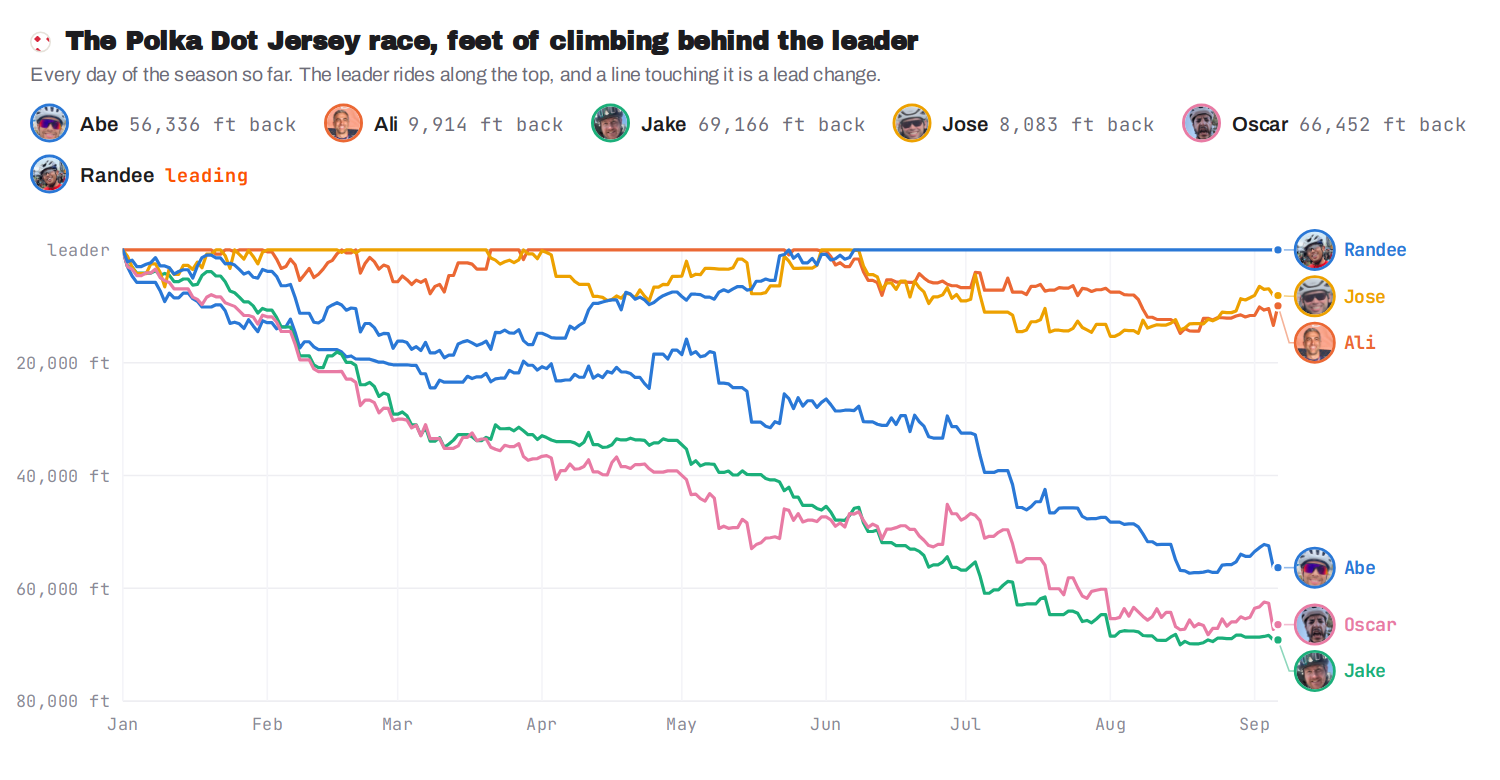
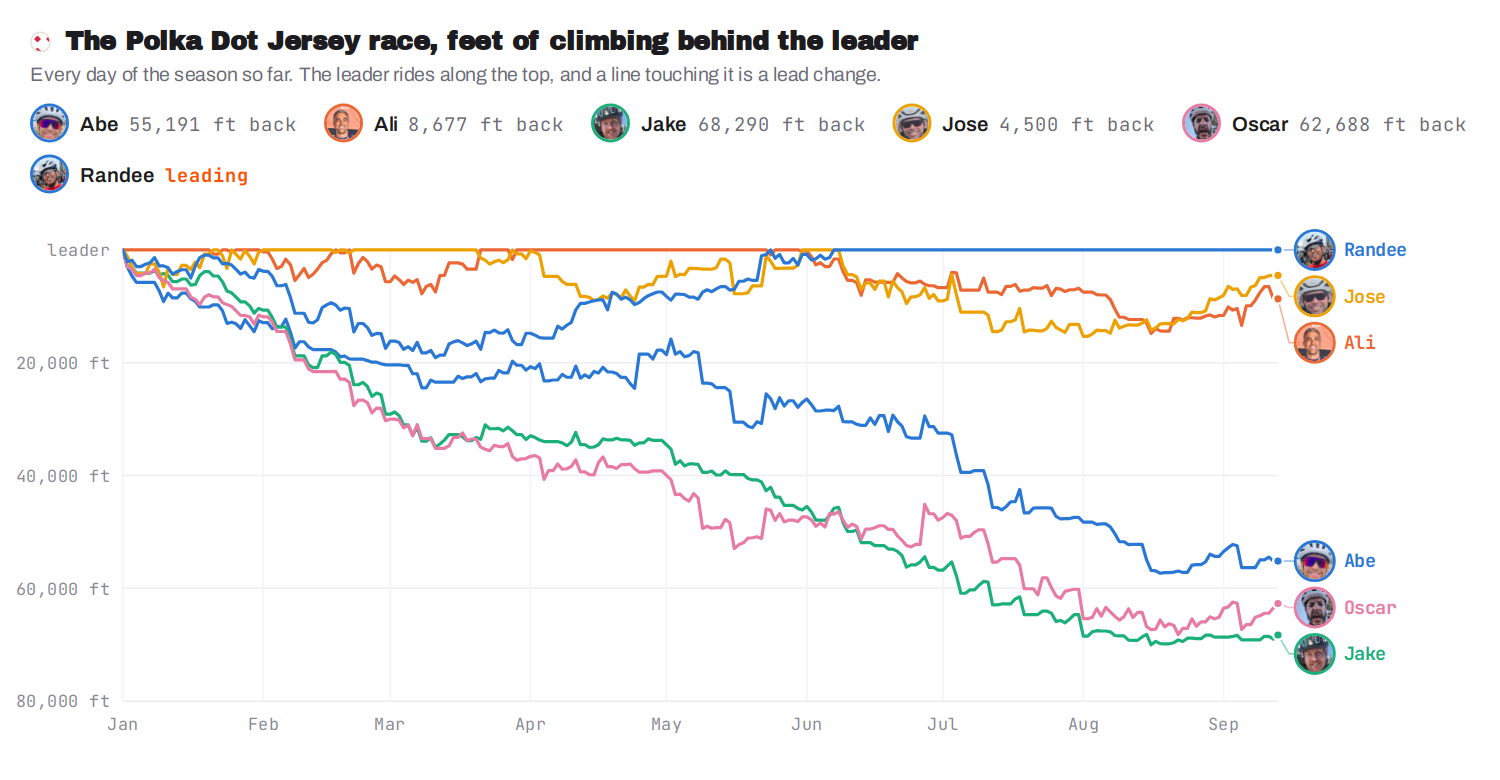
Race charts for 2026-09-13

diff --git a/data/history.js b/data/history.js
@@ -1,1 +1,1 @@
-window.HISTORY={"year":"2026","updated":"2026-09-13","riders":["Abe","Ali","Jake","Jose","Oscar","Randee"],"days":["2026-01-01","2026-01-02","2026-01-03","2026-01-04","2026-01-05","2026-01-06","2026-01-07","2026-01-08","2026-01-09","2026-01-10","2026-01-11","2026-01-12","2026-01-13","2026-01-14","2026-01-15","2026-01-16","2026-01-17","2026-01-18","2026-01-19","2026-01-20","2026-01-21","2026-01-22","2026-01-23","2026-01-24","2026-01-25","2026-01-26","2026-01-27","2026-01-28","2026-01-29","2026-01-30","2026-01-31","2026-02-01","2026-02-02","2026-02-03","2026-02-04","2026-02-05","2026-02-06","2026-02-07","2026-02-08","2026-02-09","2026-02-10","2026-02-11","2026-02-12","2026-02-13","2026-02-14","2026-02-15","2026-02-16","2026-02-17","2026-02-18","2026-02-19","2026-02-20","2026-02-21","2026-02-22","2026-02-23","2026-02-24","2026-02-25","2026-02-26","2026-02-27","2026-02-28","2026-03-01","2026-03-02","2026-03-03","2026-03-04","2026-03-05","2026-03-06","2026-03-07","2026-03-08","2026-03-09","2026-03-10","2026-03-11","2026-03-12","2026-03-13","2026-03-14","2026-03-15","2026-03-16","2026-03-17","2026-03-18","2026-03-19","2026-03-20","2026-03-21","2026-03-22","2026-03-23","2026-03-24","2026-03-25","2026-03-26","2026-03-27","2026-03-28","2026-03-29","2026-03-30","2026-03-31","2026-04-01","2026-04-02","2026-04-03","2026-04-04","2026-04-05","2026-04-06","2026-04-07","2026-04-08","2026-04-09","2026-04-10","2026-04-11","2026-04-12","2026-04-13","2026-04-14","2026-04-15","2026-04-16","2026-04-17","2026-04-18","2026-04-19","2026-04-20","2026-04-21","2026-04-22","2026-04-23","2026-04-24","2026-04-25","2026-04-26","2026-04-27","2026-04-28","2026-04-29","2026-04-30","2026-05-01","2026-05-02","2026-05-03","2026-05-04","2026-05-05","2026-05-06","2026-05-07","2026-05-08","2026-05-09","2026-05-10","2026-05-11","2026-05-12","2026-05-13","2026-05-14","2026-05-15","2026-05-16","2026-05-17","2026-05-18","2026-05-19","2026-05-20","2026-05-21","2026-05-22","2026-05-23","2026-05-24","2026-05-25","2026-05-26","2026-05-27","2026-05-28","2026-05-29","2026-05-30","2026-05-31","2026-06-01","2026-06-02","2026-06-03","2026-06-04","2026-06-05","2026-06-06","2026-06-07","2026-06-08","2026-06-09","2026-06-10","2026-06-11","2026-06-12","2026-06-13","2026-06-14","2026-06-15","2026-06-16","2026-06-17","2026-06-18","2026-06-19","2026-06-20","2026-06-21","2026-06-22","2026-06-23","2026-06-24","2026-06-25","2026-06-26","2026-06-27","2026-06-28","2026-06-29","2026-06-30","2026-07-01","2026-07-02","2026-07-03","2026-07-04","2026-07-05","2026-07-06","2026-07-07","2026-07-08","2026-07-09","2026-07-10","2026-07-11","2026-07-12","2026-07-13","2026-07-14","2026-07-15","2026-07-16","2026-07-17","2026-07-18","2026-07-19","2026-07-20","2026-07-21","2026-07-22","2026-07-23","2026-07-24","2026-07-25","2026-07-26","2026-07-27","2026-07-28","2026-07-29","2026-07-30","2026-07-31","2026-08-01","2026-08-02","2026-08-03","2026-08-04","2026-08-05","2026-08-06","2026-08-07","2026-08-08","2026-08-09","2026-08-10","2026-08-11","2026-08-12","2026-08-13","2026-08-14","2026-08-15","2026-08-16","2026-08-17","2026-08-18","2026-08-19","2026-08-20","2026-08-21","2026-08-22","2026-08-23","2026-08-24","2026-08-25","2026-08-26","2026-08-27","2026-08-28","2026-08-29","2026-08-30","2026-08-31","2026-09-01","2026-09-02","2026-09-03","2026-09-04","2026-09-05","2026-09-06","2026-09-07","2026-09-08","2026-09-09","2026-09-10","2026-09-11","2026-09-12","2026-09-13"],"miles":{"Abe":[0.0,0.0,10.0,10.0,10.0,10.0,10.0,10.0,10.0,26.5,66.8,75.9,75.9,95.2,95.2,110.1,140.7,140.7,140.7,140.7,165.4,165.4,165.4,165.4,182.7,200.8,200.8,225.2,225.2,235.4,299.2,299.2,299.2,320.7,341.9,341.9,354.4,354.4,354.4,376.2,376.2,400.9,400.9,400.9,400.9,400.9,400.9,400.9,417.8,440.2,440.2,507.5,507.5,507.5,521.0,545.3,545.3,545.3,608.5,608.5,608.5,625.6,649.3,649.3,664.0,664.0,664.0,664.0,684.4,712.1,712.1,712.1,712.1,712.1,729.6,729.6,761.0,761.0,775.8,775.8,792.5,810.9,810.9,845.3,845.3,845.3,926.6,926.6,926.6,926.6,945.4,945.4,977.1,983.1,983.1,1005.5,1005.5,1043.6,1043.6,1043.6,1099.9,1099.9,1115.4,1115.4,1146.7,1146.7,1169.7,1190.8,1190.8,1190.8,1204.8,1204.8,1204.8,1204.8,1406.2,1406.2,1406.2,1406.2,1438.3,1438.3,1438.3,1495.7,1495.7,1514.6,1514.6,1541.9,1553.7,1569.0,1569.0,1569.0,1600.4,1600.4,1600.4,1600.4,1600.4,1600.4,1600.4,1600.4,1600.4,1600.4,1617.4,1617.4,1683.5,1683.5,1683.5,1715.1,1715.1,1738.9,1738.9,1738.9,1762.2,1781.7,1781.7,1797.4,1797.4,1836.8,1836.8,1836.8,1856.8,1856.8,1887.0,1887.0,1887.0,1920.7,1920.7,1952.1,1952.1,1983.7,1983.7,1983.7,2027.9,2027.9,2027.9,2045.0,2045.0,2045.0,2045.0,2100.9,2100.9,2100.9,2100.9,2100.9,2100.9,2100.9,2100.9,2100.9,2100.9,2100.9,2105.7,2105.7,2105.7,2105.7,2105.7,2105.7,2105.7,2120.8,2136.6,2136.6,2198.9,2198.9,2198.9,2214.5,2246.7,2246.7,2246.7,2286.8,2286.8,2286.8,2296.0,2296.0,2302.1,2302.1,2372.6,2372.6,2372.6,2372.6,2408.8,2408.8,2417.8,2433.1,2433.1,2433.1,2436.7,2467.1,2467.1,2467.1,2467.1,2467.1,2467.1,2467.1,2502.7,2502.7,2521.2,2571.3,2571.3,2571.3,2594.0,2629.1,2629.1,2649.5,2696.9,2696.9,2696.9,2727.1,2739.5,2759.5,2759.5,2788.2,2788.2,2788.2,2788.2,2814.7,2814.7,2829.0,2851.3,2851.3],"Ali":[0.0,28.3,64.7,69.1,69.1,69.1,69.1,69.1,81.9,109.7,118.3,122.3,122.3,122.3,122.3,134.8,154.5,159.4,159.4,159.4,159.4,159.4,167.0,197.9,197.9,201.8,206.7,206.7,210.6,221.4,231.6,231.6,231.6,231.6,231.6,239.2,249.6,260.4,260.4,265.3,269.2,269.2,272.9,289.7,298.4,307.9,313.6,317.8,328.2,328.2,339.8,339.8,351.2,362.8,362.8,373.4,386.1,386.1,437.2,437.2,442.1,442.1,451.6,461.1,473.7,478.4,478.4,489.1,495.0,503.2,533.4,533.4,549.9,549.9,549.9,563.6,571.8,571.8,571.8,621.3,627.6,640.9,640.9,647.9,662.9,662.9,677.2,766.3,766.3,784.0,784.0,796.3,813.3,924.5,924.5,924.5,924.5,936.8,955.4,955.4,955.4,991.4,991.4,1001.9,1016.2,1026.3,1026.3,1038.5,1038.5,1051.4,1062.6,1062.6,1075.1,1107.0,1154.9,1154.9,1154.9,1165.2,1165.2,1165.2,1185.4,1204.6,1225.9,1225.9,1236.2,1245.3,1245.3,1265.2,1323.8,1323.8,1339.1,1347.0,1347.0,1347.0,1357.0,1434.6,1434.6,1434.6,1442.6,1446.8,1446.8,1458.3,1473.2,1473.2,1494.0,1494.0,1521.7,1521.7,1521.7,1554.5,1557.6,1557.6,1557.6,1557.6,1566.1,1566.1,1566.1,1601.1,1601.1,1606.5,1606.5,1606.5,1606.5,1606.5,1624.9,1624.9,1632.6,1632.6,1632.6,1746.2,1746.2,1767.8,1767.8,1777.7,1777.7,1777.7,1793.2,1793.2,1817.6,1817.6,1825.4,1825.4,1825.4,1861.6,1899.1,1899.1,1899.1,1899.1,1899.1,1899.1,1925.0,1925.0,1952.8,1952.8,1952.8,1982.1,1982.1,1997.5,1997.5,2043.1,2043.1,2048.8,2076.1,2076.1,2091.2,2091.2,2113.4,2129.0,2129.0,2144.4,2144.4,2148.3,2203.6,2203.6,2203.6,2208.3,2238.2,2238.2,2238.2,2238.2,2238.2,2238.2,2247.4,2277.3,2277.3,2277.3,2324.4,2324.4,2347.4,2347.4,2377.6,2377.6,2405.2,2452.3,2452.3,2471.0,2471.0,2501.6,2501.6,2518.1,2558.4,2558.4,2571.3,2571.3,2602.6,2602.6,2622.0,2658.0,2669.2,2669.2,2680.3,2708.0,2719.6,2719.6,2719.6,2719.6],"Jake":[0.0,0.0,35.6,35.6,35.6,35.6,35.6,51.1,72.1,110.9,110.9,110.9,110.9,126.4,126.4,141.4,181.0,222.5,242.7,242.7,242.7,242.7,242.7,262.9,262.9,262.9,262.9,262.9,278.0,278.0,311.3,311.3,311.3,311.3,311.3,311.3,311.3,311.3,311.3,311.3,311.3,311.3,311.3,311.3,412.2,412.2,432.6,432.6,432.6,432.6,432.6,453.3,453.3,468.9,468.9,468.9,489.0,489.0,489.0,489.0,504.0,504.0,504.0,504.0,504.0,531.5,531.5,531.5,541.9,541.9,552.2,570.4,612.9,612.9,612.9,612.9,631.1,631.1,641.4,662.4,696.6,696.6,696.6,706.9,706.9,725.9,763.4,763.4,763.4,763.4,781.7,781.7,781.7,883.4,883.4,883.4,883.4,901.5,901.5,911.6,963.3,963.3,963.3,963.3,973.4,991.5,1017.0,1040.0,1040.0,1050.2,1062.6,1062.6,1087.7,1087.7,1133.5,1133.5,1151.6,1162.3,1162.3,1162.3,1162.3,1162.3,1162.3,1172.6,1172.6,1190.7,1190.7,1209.6,1278.7,1278.7,1289.0,1289.0,1289.0,1307.1,1307.1,1384.6,1384.6,1384.6,1384.6,1384.6,1384.6,1384.6,1409.7,1442.7,1442.7,1442.7,1442.7,1442.7,1442.7,1460.1,1460.1,1470.3,1470.3,1470.3,1470.3,1488.4,1510.1,1545.1,1560.6,1560.6,1560.6,1560.6,1579.6,1579.6,1579.6,1579.6,1589.9,1589.9,1589.9,1690.2,1690.2,1710.3,1710.3,1710.3,1720.5,1720.5,1732.9,1763.2,1763.2,1763.2,1773.4,1773.4,1793.5,1818.9,1839.4,1839.4,1839.4,1849.6,1849.6,1869.9,1887.0,1930.3,1930.3,1930.3,1940.5,1940.5,1940.5,1960.6,1983.8,2014.8,2014.8,2014.8,2045.0,2055.3,2055.3,2086.0,2086.0,2096.3,2096.3,2114.3,2132.1,2132.1,2182.2,2182.2,2202.3,2212.5,2242.3,2242.3,2260.3,2285.4,2320.6,2320.6,2320.6,2350.5,2350.5,2360.6,2425.1,2425.1,2442.1,2442.1,2472.5,2472.5,2489.7,2542.6,2542.6,2552.9,2552.9,2583.6,2583.6,2601.6,2635.2,2635.2,2635.2,2635.2,2635.2,2652.2,2662.0,2763.0,2763.0,2763.0,2763.0,2763.0,2780.1,2780.1,2818.6,2838.7],"Jose":[0.0,41.2,41.2,41.2,41.2,41.2,71.7,71.7,71.7,71.7,127.2,127.2,127.2,155.4,155.4,175.1,220.5,220.5,262.5,262.5,291.7,291.7,291.7,291.7,344.5,344.5,344.5,374.0,374.0,374.0,441.5,462.6,462.6,485.6,521.2,521.2,521.2,571.0,627.5,627.5,627.5,656.7,677.5,677.5,677.5,677.5,677.5,677.5,708.6,708.6,708.6,778.1,778.1,778.1,795.7,831.7,831.7,846.7,913.2,913.2,913.2,927.6,957.1,957.1,995.2,995.2,1049.3,1049.3,1049.3,1087.5,1087.5,1087.5,1087.5,1087.5,1087.5,1106.2,1132.9,1132.9,1132.9,1132.9,1132.9,1132.9,1147.5,1163.7,1163.7,1179.9,1252.3,1252.3,1252.3,1252.3,1279.2,1279.2,1279.2,1279.2,1279.2,1279.2,1279.2,1279.2,1279.2,1279.2,1279.2,1279.2,1279.2,1290.6,1290.6,1304.7,1319.6,1350.8,1371.6,1371.6,1387.2,1414.0,1414.0,1414.0,1516.3,1516.3,1532.4,1548.6,1577.7,1577.7,1597.5,1651.2,1651.2,1664.5,1681.9,1711.3,1711.3,1731.3,1788.5,1788.5,1803.7,1822.4,1851.4,1851.4,1851.4,1851.4,1851.4,1851.4,1868.7,1899.5,1899.5,1910.9,1976.3,1976.3,1996.2,1996.2,2025.5,2025.5,2025.5,2055.6,2113.4,2113.4,2131.7,2161.1,2161.1,2178.6,2178.6,2178.6,2178.6,2178.6,2178.6,2178.6,2178.6,2178.6,2211.7,2211.7,2211.7,2240.9,2240.9,2240.9,2285.5,2285.5,2285.5,2285.5,2313.5,2313.5,2328.9,2363.7,2363.7,2381.1,2381.1,2381.1,2391.4,2471.2,2471.2,2471.2,2471.2,2471.2,2471.2,2471.2,2471.2,2508.3,2542.9,2542.9,2562.5,2591.6,2591.6,2607.1,2665.9,2665.9,2677.3,2677.3,2704.1,2704.1,2719.2,2774.2,2789.1,2789.1,2789.1,2818.1,2818.1,2818.1,2876.7,2876.7,2895.3,2913.3,2943.4,2943.4,2956.6,3014.6,3014.6,3029.9,3045.7,3074.9,3074.9,3087.9,3146.5,3146.5,3165.0,3181.0,3208.5,3208.5,3221.6,3286.9,3286.9,3305.4,3322.2,3351.5,3351.5,3362.7,3426.8,3432.5,3451.3,3470.2,3500.1,3500.1,3514.6,3560.7,3560.7,3587.8,3599.6,3626.8,3626.8,3640.4,3684.4,3684.4],"Oscar":[0.0,0.0,55.9,55.9,55.9,77.2,77.2,97.3,97.3,152.1,152.1,152.1,152.1,152.1,152.1,152.1,174.3,179.0,208.4,219.3,230.3,246.4,246.4,293.1,293.1,293.1,309.3,309.3,334.2,334.2,395.7,397.6,397.6,416.6,416.6,435.1,435.1,456.3,456.3,456.3,456.3,456.3,456.3,456.3,456.3,456.3,456.3,476.0,476.0,492.5,492.5,492.5,533.1,533.1,545.7,545.7,563.0,570.6,608.8,626.7,626.7,644.0,655.0,677.0,677.0,706.2,706.2,706.2,706.2,706.2,706.2,706.2,713.6,739.0,739.0,776.4,776.4,796.9,796.9,796.9,796.9,808.0,822.3,833.5,853.5,857.1,857.1,869.6,880.3,901.5,916.2,930.5,930.5,930.5,938.6,938.6,968.1,968.1,983.9,999.9,1028.6,1028.6,1028.6,1028.6,1039.2,1065.7,1090.5,1090.5,1090.5,1090.5,1124.3,1124.3,1154.6,1154.6,1184.4,1184.4,1184.4,1208.4,1208.4,1208.4,1208.4,1208.4,1208.4,1224.1,1245.5,1245.5,1261.6,1261.6,1261.6,1273.8,1273.8,1307.8,1307.8,1338.9,1338.9,1387.0,1404.5,1414.6,1436.2,1446.1,1455.1,1455.1,1520.9,1543.5,1543.5,1573.9,1573.9,1588.3,1588.3,1630.3,1652.9,1652.9,1674.0,1684.8,1703.0,1703.0,1740.2,1740.2,1751.6,1785.8,1795.9,1818.5,1818.5,1818.5,1842.4,1842.4,1870.4,1881.4,1881.4,1965.3,1965.3,1965.3,1965.3,1992.3,1992.3,2012.7,2012.7,2068.1,2077.0,2077.0,2077.0,2096.7,2125.8,2125.8,2146.0,2146.0,2157.1,2157.1,2182.0,2201.8,2201.8,2201.8,2239.3,2239.3,2273.1,2273.1,2273.1,2273.1,2273.1,2273.1,2273.1,2273.1,2283.5,2334.5,2334.5,2334.5,2334.5,2334.5,2369.6,2376.2,2382.5,2382.5,2382.5,2382.5,2389.0,2418.9,2425.3,2448.1,2448.1,2475.4,2499.3,2516.1,2552.1,2552.1,2589.0,2589.0,2591.2,2630.4,2641.0,2680.0,2693.2,2715.5,2721.1,2748.9,2807.0,2807.0,2841.2,2851.9,2883.6,2883.6,2930.6,2930.6,2941.3,2981.8,2992.6,3001.1,3001.1,3007.9,3029.7,3029.7,3050.0,3060.6,3082.6,3082.6,3106.2,3106.2],"Randee":[0.0,22.5,68.5,68.5,68.5,82.1,93.7,115.7,115.7,143.2,143.2,143.2,158.1,167.7,167.7,167.7,221.6,261.1,274.8,274.8,286.2,286.2,286.2,317.2,323.3,323.3,323.3,335.7,344.4,352.3,432.7,432.7,432.7,446.1,446.1,446.1,456.6,456.6,456.6,456.6,456.6,456.6,468.1,480.2,580.8,587.4,592.2,592.2,607.1,620.6,632.0,632.0,660.7,660.7,660.7,671.8,685.7,695.1,746.2,778.0,778.0,791.7,803.7,819.3,829.9,857.2,875.6,875.6,890.5,901.6,917.3,917.3,997.5,1005.6,1010.5,1010.5,1033.1,1047.7,1059.1,1059.1,1106.1,1111.0,1125.9,1125.9,1141.7,1146.7,1151.5,1151.5,1151.5,1175.6,1175.6,1175.6,1175.6,1281.1,1281.1,1281.1,1290.4,1304.0,1345.0,1355.7,1416.7,1453.2,1453.2,1464.7,1487.9,1503.5,1503.5,1503.5,1526.5,1526.5,1531.5,1546.5,1559.6,1559.6,1605.7,1613.7,1636.4,1652.7,1666.2,1666.2,1666.2,1669.5,1732.4,1732.4,1743.3,1743.3,1743.3,1747.3,1799.0,1803.9,1803.9,1816.6,1830.2,1830.2,1830.2,1907.9,1943.9,1943.9,1955.7,1955.7,1955.7,1985.1,1999.8,2036.4,2040.6,2055.8,2055.8,2055.8,2079.0,2079.0,2129.8,2129.8,2129.8,2162.3,2181.6,2181.6,2190.6,2225.5,2225.5,2237.7,2268.2,2268.2,2281.8,2382.0,2382.0,2382.0,2394.2,2394.2,2394.2,2500.7,2500.7,2504.5,2509.0,2524.4,2534.9,2534.9,2534.9,2551.3,2560.1,2560.1,2572.1,2572.1,2572.1,2585.3,2622.8,2630.9,2630.9,2630.9,2630.9,2630.9,2630.9,2674.5,2702.2,2702.2,2718.0,2718.0,2718.0,2718.0,2742.5,2779.4,2779.4,2779.4,2809.9,2809.9,2809.9,2827.3,2865.2,2878.8,2892.5,2892.5,2892.5,2892.5,2954.6,2954.6,2954.6,2968.3,2998.1,2998.1,3018.9,3064.2,3099.4,3099.4,3116.5,3146.3,3146.3,3146.3,3202.3,3225.1,3226.7,3240.3,3270.1,3270.1,3289.2,3333.8,3339.1,3339.1,3339.1,3369.6,3369.6,3369.6,3472.0,3478.7,3478.7,3478.7,3478.7,3492.3,3498.2,3606.4,3606.4,3606.4,3606.4,3606.4,3606.4,3606.4,3622.4,3622.4]},"feet":{"Abe":[0,0,295,295,295,295,295,295,295,958,2828,3054,3054,3917,3917,4386,5164,5164,5164,5164,6309,6309,6309,6309,6837,7339,7339,8878,8878,9144,11522,11522,11522,11696,13740,13740,15115,15115,15115,16217,16217,16909,16909,16909,16909,16909,16909,16909,17441,17625,17625,21732,21732,21732,22205,23704,23704,23704,27011,27011,27011,27651,29173,29173,29557,29557,29557,29557,30915,32244,32244,32244,32244,32244,33301,33301,34961,34961,35554,35554,36420,37250,37250,39140,39140,39140,43484,43484,43484,43484,44084,44084,45347,46105,46105,46285,46285,48182,48182,48182,50160,50160,50754,50754,52388,52388,53405,54330,54330,54330,54743,54743,54743,54743,62190,62190,62190,62190,63775,63775,63775,67292,67292,67722,67722,68339,69051,69651,69651,69651,69910,69910,69910,69910,69910,69910,69910,69910,69910,69910,70983,70983,78857,78857,78857,80780,80780,81711,81711,81711,82899,83499,83499,83818,83818,84680,84680,84680,85448,85448,86970,86970,86970,89018,89018,90330,90330,91888,91888,91888,94772,94772,94772,94913,94913,94913,94913,99392,99392,99392,99392,99392,99392,99392,99392,99392,99392,99392,99740,99740,99740,99740,99740,99740,99740,100304,101203,101203,104556,104556,104556,105406,106974,106974,106974,108670,108670,108670,109152,109152,109343,109343,113749,113749,113749,113749,115376,115376,115655,116154,116154,116154,116409,117935,117935,117935,117935,117935,117935,117935,119536,119536,120054,122338,122338,122338,123644,125235,125235,125727,129303,129303,129303,130156,130822,131925,131925,133004,133004,133004,133004,134369,134369,134881,136360,136360],"Ali":[0,2966,4921,6047,6047,6047,6047,6047,7536,10128,10479,11575,11575,11575,11575,13045,14272,15285,15285,15285,15285,15285,17083,19337,19337,20433,21257,21257,22352,23638,24091,24091,24091,24091,24091,24436,25738,27080,27080,28097,29193,29193,30289,31175,32310,32756,33917,35013,35909,35909,36975,36975,38683,39765,39765,40208,40924,40924,41721,41721,42741,42741,43515,44286,45737,46239,46239,47531,47885,48250,51179,51179,53424,53424,53424,53581,54057,54057,54057,58926,59280,59992,59992,60500,60956,60956,61550,63952,63952,64792,64792,65124,65547,69343,69343,69343,69343,70245,70763,70763,70763,72922,72922,73398,73962,74225,74225,75967,75967,76272,77342,77342,78450,79281,80645,80645,80645,81534,81534,81534,82332,83096,85777,85777,86685,87095,87095,87886,93283,93283,93641,94336,94336,94336,94947,100465,100465,100465,101174,101439,101439,101767,104385,104385,107000,107000,108470,108470,108470,109635,109730,109730,109730,109730,110130,110130,110130,111557,111557,112073,112073,112073,112073,112073,114815,114815,115567,115567,115567,118329,118329,121036,121036,122417,122417,122417,122745,122745,124399,124399,125186,125186,125186,128185,131698,131698,131698,131698,131698,131698,133857,133857,137919,137919,137919,139376,139376,139717,139717,144071,144071,144481,145908,145908,146357,146357,149094,149408,149408,149730,149730,149986,154504,154504,154504,154510,155957,155957,155957,155957,155957,155957,156365,157835,157835,157835,159958,159958,160903,160903,162336,162336,165033,167123,167123,167523,167523,168967,168967,169324,171742,171742,171992,171992,173491,173491,173954,175955,179426,179426,180420,181762,182819,182819,182819,182819],"Jake":[0,0,1926,1926,1926,1926,1926,2343,3058,5961,5961,5961,5961,6407,6407,6804,8150,10755,11440,11440,11440,11440,11440,12051,12051,12051,12051,12051,12431,12431,13711,13711,13711,13711,13711,13711,13711,13711,13711,13711,13711,13711,13711,13711,15820,15820,16493,16493,16493,16493,16493,17175,17175,17618,17618,17618,18225,18225,18225,18225,18625,18625,18625,18625,18625,20072,20072,20072,20705,20705,21299,21969,22969,22969,22969,22969,23615,23615,24213,25338,28271,28271,28271,28875,28875,29514,31184,31184,31184,31184,31850,31850,31850,35361,35361,35361,35361,36030,36030,36663,38402,38402,38402,38402,39016,39685,40728,42267,42267,42887,43668,43668,44652,44652,46444,46444,47129,47766,47766,47766,47766,47766,47766,48392,48392,49137,49137,49852,53825,53825,54432,54432,54432,55148,55148,60646,60646,60646,60646,60646,60646,60646,61686,63169,63169,63169,63169,63169,63169,63799,63799,64465,64465,64465,64465,65164,65984,67359,67516,67516,67516,67516,68219,68219,68219,68219,68848,68848,68848,71033,71033,71798,71798,71798,72415,72415,72930,74446,74446,74446,75075,75075,75817,76850,77982,77982,77982,78589,78589,79386,80085,82448,82448,82448,83058,83058,83058,83973,85486,86526,86526,86526,88028,88645,88645,90030,90030,90663,90663,91342,92096,92096,93520,93520,94272,94921,96385,96385,97047,98117,99488,99488,99488,100942,100942,101552,104741,104741,105433,105433,106900,106900,107539,110102,110102,110689,110689,112096,112096,112730,114964,114964,114964,114964,114964,115627,116040,120174,120174,120174,120174,120174,120820,120820,122552,123261],"Jose":[0,1854,1854,1854,1854,1854,3576,3576,3576,3576,7238,7238,7238,8812,8812,9587,12100,12100,14511,14511,16053,16053,16053,16053,19652,19652,19652,21184,21184,21184,23678,24419,24419,25696,27388,27388,27388,29721,32493,32493,32493,34108,34590,34590,34590,34590,34590,34590,36424,36424,36424,41102,41102,41102,41837,43615,43615,43911,47369,47369,47369,48018,49649,49649,51503,51503,54003,54003,54003,55709,55709,55709,55709,55709,55709,56109,57467,57467,57467,57467,57467,57467,57890,58675,58675,59203,63241,63241,63241,63241,64662,64662,64662,64662,64662,64662,64662,64662,64662,64662,64662,64662,64662,64980,64980,65420,66043,67395,68346,68346,68832,70249,70249,70249,74039,74039,74557,75364,76860,76860,77674,81076,81076,81470,82300,83796,83796,84580,89885,89885,90207,91184,92690,92690,92690,92690,92690,92690,93596,95056,95056,95377,103281,103281,103743,103743,105240,105240,105240,106870,109934,109934,110919,112392,112392,113094,113094,113094,113094,113094,113094,113094,113094,113094,114265,114265,114265,115745,115745,115745,118553,118553,118553,118553,119964,119964,120305,122136,122136,122822,122822,122822,123110,127815,127815,127815,127815,127815,127815,127815,127815,129800,130906,130906,131670,133110,133110,133448,136637,136637,136939,136939,138327,138327,138786,141808,142172,142172,142172,143609,143609,143609,146670,146670,147064,148192,149646,149646,149993,154032,154032,154373,155394,156847,156847,157195,160561,160561,161020,162149,163681,163681,164068,166962,166962,167375,168501,169915,169915,170203,174590,174738,175157,175584,177159,177159,177480,181257,181257,182690,183022,184439,184439,184734,187051,187051],"Oscar":[0,0,1473,1473,1473,1952,1952,2638,2638,4688,4688,4688,4688,4688,4688,4688,5495,5581,6893,7333,7733,7733,7733,9626,9626,9626,9626,9626,10466,10466,12513,12552,12552,12913,12913,12913,12913,13002,13002,13002,13002,13002,13002,13002,13002,13002,13002,13491,13491,13491,13491,13491,14459,14459,14744,14744,15564,15807,17106,17359,17359,17825,18100,18547,18547,20528,20528,20528,20528,20528,20528,20528,20951,22464,22464,23645,23645,23940,23940,23940,23940,24386,25341,25643,26053,26604,26604,26650,26915,27795,28185,28654,28654,28654,30219,30219,31387,31387,31965,32358,33549,33549,33549,33549,34071,36525,37522,37522,37522,37522,39278,39278,40485,40485,41233,41233,41233,42362,42362,42362,42362,42362,42362,42460,42565,42565,43897,43897,43897,44278,44278,45094,45094,46554,46554,47503,48198,48513,50065,50409,50577,50577,58461,59058,59058,60236,60236,60554,60554,61469,62591,62591,63073,63402,63972,63972,66338,66338,66732,67942,68251,68844,68844,68844,70636,70636,72040,72362,72362,74514,74514,74514,74514,75623,75623,76052,76052,83697,83972,83972,83972,84419,85147,85147,87749,87749,88087,88087,88792,89248,89248,89248,90062,90062,91112,91112,91112,91112,91112,91112,91112,91112,91538,94570,94570,94570,94570,94570,96259,96443,96617,96617,96617,96617,96837,98848,99012,100572,100572,101510,102272,102849,105024,105024,105887,105887,106107,107419,107626,109640,109919,110487,110598,111054,112419,112419,114115,114325,115083,115083,118213,118213,118502,120077,120339,121704,121704,122052,122888,122888,124201,124447,124923,124923,128089,128089],"Randee":[0,853,3097,3097,3097,3504,3776,4685,4685,7293,7293,7293,7753,8061,8061,8061,11414,13934,14344,14344,14626,14626,14626,16949,16965,16965,16965,17303,17503,18638,20620,20620,20620,21024,21024,21024,21273,21273,21273,21273,21273,21273,21627,22198,24337,24823,25240,25240,25735,26138,26558,26558,28058,28058,28058,28465,28793,29088,29934,31194,31194,31604,32041,32480,33645,35095,35738,35738,36181,36601,37051,37051,39042,39396,39623,39623,40492,40823,41306,41306,44636,45331,45774,45774,46188,46801,47146,47146,47146,50003,50003,50003,50003,53720,53720,53720,55814,56214,57415,57917,60128,63446,63446,64161,64942,65365,65365,65365,68442,68442,68616,68984,69587,69587,71300,71995,72543,73757,74066,74066,74066,74184,77914,77914,78734,78734,78734,79151,85785,86224,86224,87419,87839,87839,87839,93491,94899,94899,96008,96008,96008,100713,103573,105253,105519,106165,106165,106165,106966,106966,109144,109144,109144,110837,111457,111457,111741,113175,113175,115927,117456,117456,117893,120127,120127,120127,121279,121279,121279,124074,124074,125239,125996,128044,128273,128273,128273,128844,130740,130740,131876,131876,131876,132171,135753,138860,138860,138860,138860,138860,138860,141354,145402,145402,145845,145845,145845,145845,147023,151183,151183,151183,152692,152692,152692,154445,155927,156361,156787,156787,156787,156787,162000,162000,162000,162440,163952,163952,164763,166495,167909,167909,168667,170176,170176,170176,172919,174766,174852,175262,176758,176758,177181,179271,179543,179543,179543,181046,181046,181046,183251,183628,183628,183628,183628,184156,184373,189340,189340,189340,189340,189340,189340,189340,191551,191551]}};
+window.HISTORY={"year":"2026","updated":"2026-09-13","riders":["Abe","Ali","Jake","Jose","Oscar","Randee"],"days":["2026-01-01","2026-01-02","2026-01-03","2026-01-04","2026-01-05","2026-01-06","2026-01-07","2026-01-08","2026-01-09","2026-01-10","2026-01-11","2026-01-12","2026-01-13","2026-01-14","2026-01-15","2026-01-16","2026-01-17","2026-01-18","2026-01-19","2026-01-20","2026-01-21","2026-01-22","2026-01-23","2026-01-24","2026-01-25","2026-01-26","2026-01-27","2026-01-28","2026-01-29","2026-01-30","2026-01-31","2026-02-01","2026-02-02","2026-02-03","2026-02-04","2026-02-05","2026-02-06","2026-02-07","2026-02-08","2026-02-09","2026-02-10","2026-02-11","2026-02-12","2026-02-13","2026-02-14","2026-02-15","2026-02-16","2026-02-17","2026-02-18","2026-02-19","2026-02-20","2026-02-21","2026-02-22","2026-02-23","2026-02-24","2026-02-25","2026-02-26","2026-02-27","2026-02-28","2026-03-01","2026-03-02","2026-03-03","2026-03-04","2026-03-05","2026-03-06","2026-03-07","2026-03-08","2026-03-09","2026-03-10","2026-03-11","2026-03-12","2026-03-13","2026-03-14","2026-03-15","2026-03-16","2026-03-17","2026-03-18","2026-03-19","2026-03-20","2026-03-21","2026-03-22","2026-03-23","2026-03-24","2026-03-25","2026-03-26","2026-03-27","2026-03-28","2026-03-29","2026-03-30","2026-03-31","2026-04-01","2026-04-02","2026-04-03","2026-04-04","2026-04-05","2026-04-06","2026-04-07","2026-04-08","2026-04-09","2026-04-10","2026-04-11","2026-04-12","2026-04-13","2026-04-14","2026-04-15","2026-04-16","2026-04-17","2026-04-18","2026-04-19","2026-04-20","2026-04-21","2026-04-22","2026-04-23","2026-04-24","2026-04-25","2026-04-26","2026-04-27","2026-04-28","2026-04-29","2026-04-30","2026-05-01","2026-05-02","2026-05-03","2026-05-04","2026-05-05","2026-05-06","2026-05-07","2026-05-08","2026-05-09","2026-05-10","2026-05-11","2026-05-12","2026-05-13","2026-05-14","2026-05-15","2026-05-16","2026-05-17","2026-05-18","2026-05-19","2026-05-20","2026-05-21","2026-05-22","2026-05-23","2026-05-24","2026-05-25","2026-05-26","2026-05-27","2026-05-28","2026-05-29","2026-05-30","2026-05-31","2026-06-01","2026-06-02","2026-06-03","2026-06-04","2026-06-05","2026-06-06","2026-06-07","2026-06-08","2026-06-09","2026-06-10","2026-06-11","2026-06-12","2026-06-13","2026-06-14","2026-06-15","2026-06-16","2026-06-17","2026-06-18","2026-06-19","2026-06-20","2026-06-21","2026-06-22","2026-06-23","2026-06-24","2026-06-25","2026-06-26","2026-06-27","2026-06-28","2026-06-29","2026-06-30","2026-07-01","2026-07-02","2026-07-03","2026-07-04","2026-07-05","2026-07-06","2026-07-07","2026-07-08","2026-07-09","2026-07-10","2026-07-11","2026-07-12","2026-07-13","2026-07-14","2026-07-15","2026-07-16","2026-07-17","2026-07-18","2026-07-19","2026-07-20","2026-07-21","2026-07-22","2026-07-23","2026-07-24","2026-07-25","2026-07-26","2026-07-27","2026-07-28","2026-07-29","2026-07-30","2026-07-31","2026-08-01","2026-08-02","2026-08-03","2026-08-04","2026-08-05","2026-08-06","2026-08-07","2026-08-08","2026-08-09","2026-08-10","2026-08-11","2026-08-12","2026-08-13","2026-08-14","2026-08-15","2026-08-16","2026-08-17","2026-08-18","2026-08-19","2026-08-20","2026-08-21","2026-08-22","2026-08-23","2026-08-24","2026-08-25","2026-08-26","2026-08-27","2026-08-28","2026-08-29","2026-08-30","2026-08-31","2026-09-01","2026-09-02","2026-09-03","2026-09-04","2026-09-05","2026-09-06","2026-09-07","2026-09-08","2026-09-09","2026-09-10","2026-09-11","2026-09-12","2026-09-13"],"miles":{"Abe":[0.0,0.0,10.0,10.0,10.0,10.0,10.0,10.0,10.0,26.5,66.8,75.9,75.9,95.2,95.2,110.1,140.7,140.7,140.7,140.7,165.4,165.4,165.4,165.4,182.7,200.8,200.8,225.2,225.2,235.4,299.2,299.2,299.2,320.7,341.9,341.9,354.4,354.4,354.4,376.2,376.2,400.9,400.9,400.9,400.9,400.9,400.9,400.9,417.8,440.2,440.2,507.5,507.5,507.5,521.0,545.3,545.3,545.3,608.5,608.5,608.5,625.6,649.3,649.3,664.0,664.0,664.0,664.0,684.4,712.1,712.1,712.1,712.1,712.1,729.6,729.6,761.0,761.0,775.8,775.8,792.5,810.9,810.9,845.3,845.3,845.3,926.6,926.6,926.6,926.6,945.4,945.4,977.1,983.1,983.1,1005.5,1005.5,1043.6,1043.6,1043.6,1099.9,1099.9,1115.4,1115.4,1146.7,1146.7,1169.7,1190.8,1190.8,1190.8,1204.8,1204.8,1204.8,1204.8,1406.2,1406.2,1406.2,1406.2,1438.3,1438.3,1438.3,1495.7,1495.7,1514.6,1514.6,1541.9,1553.7,1569.0,1569.0,1569.0,1600.4,1600.4,1600.4,1600.4,1600.4,1600.4,1600.4,1600.4,1600.4,1600.4,1617.4,1617.4,1683.5,1683.5,1683.5,1715.1,1715.1,1738.9,1738.9,1738.9,1762.2,1781.7,1781.7,1797.4,1797.4,1836.8,1836.8,1836.8,1856.8,1856.8,1887.0,1887.0,1887.0,1920.7,1920.7,1952.1,1952.1,1983.7,1983.7,1983.7,2027.9,2027.9,2027.9,2045.0,2045.0,2045.0,2045.0,2100.9,2100.9,2100.9,2100.9,2100.9,2100.9,2100.9,2100.9,2100.9,2100.9,2100.9,2105.7,2105.7,2105.7,2105.7,2105.7,2105.7,2105.7,2120.8,2136.6,2136.6,2198.9,2198.9,2198.9,2214.5,2246.7,2246.7,2246.7,2286.8,2286.8,2286.8,2296.0,2296.0,2302.1,2302.1,2372.6,2372.6,2372.6,2372.6,2408.8,2408.8,2417.8,2433.1,2433.1,2433.1,2436.7,2467.1,2467.1,2467.1,2467.1,2467.1,2467.1,2467.1,2502.7,2502.7,2521.2,2571.3,2571.3,2571.3,2594.0,2629.1,2629.1,2649.5,2696.9,2696.9,2696.9,2727.1,2739.5,2759.5,2759.5,2788.2,2788.2,2788.2,2788.2,2814.7,2814.7,2829.0,2851.3,2851.3],"Ali":[0.0,28.3,64.7,69.1,69.1,69.1,69.1,69.1,81.9,109.7,118.3,122.3,122.3,122.3,122.3,134.8,154.5,159.4,159.4,159.4,159.4,159.4,167.0,197.9,197.9,201.8,206.7,206.7,210.6,221.4,231.6,231.6,231.6,231.6,231.6,239.2,249.6,260.4,260.4,265.3,269.2,269.2,272.9,289.7,298.4,307.9,313.6,317.8,328.2,328.2,339.8,339.8,351.2,362.8,362.8,373.4,386.1,386.1,437.2,437.2,442.1,442.1,451.6,461.1,473.7,478.4,478.4,489.1,495.0,503.2,533.4,533.4,549.9,549.9,549.9,563.6,571.8,571.8,571.8,621.3,627.6,640.9,640.9,647.9,662.9,662.9,677.2,766.3,766.3,784.0,784.0,796.3,813.3,924.5,924.5,924.5,924.5,936.8,955.4,955.4,955.4,991.4,991.4,1001.9,1016.2,1026.3,1026.3,1038.5,1038.5,1051.4,1062.6,1062.6,1075.1,1107.0,1154.9,1154.9,1154.9,1165.2,1165.2,1165.2,1185.4,1204.6,1225.9,1225.9,1236.2,1245.3,1245.3,1265.2,1323.8,1323.8,1339.1,1347.0,1347.0,1347.0,1357.0,1434.6,1434.6,1434.6,1442.6,1446.8,1446.8,1458.3,1473.2,1473.2,1494.0,1494.0,1521.7,1521.7,1521.7,1554.5,1557.6,1557.6,1557.6,1557.6,1566.1,1566.1,1566.1,1601.1,1601.1,1606.5,1606.5,1606.5,1606.5,1606.5,1624.9,1624.9,1632.6,1632.6,1632.6,1746.2,1746.2,1767.8,1767.8,1777.7,1777.7,1777.7,1793.2,1793.2,1817.6,1817.6,1825.4,1825.4,1825.4,1861.6,1899.1,1899.1,1899.1,1899.1,1899.1,1899.1,1925.0,1925.0,1952.8,1952.8,1952.8,1982.1,1982.1,1997.5,1997.5,2043.1,2043.1,2048.8,2076.1,2076.1,2091.2,2091.2,2113.4,2129.0,2129.0,2144.4,2144.4,2148.3,2203.6,2203.6,2203.6,2208.3,2238.2,2238.2,2238.2,2238.2,2238.2,2238.2,2247.4,2277.3,2277.3,2277.3,2324.4,2324.4,2347.4,2347.4,2377.6,2377.6,2405.2,2452.3,2452.3,2471.0,2471.0,2501.6,2501.6,2518.1,2558.4,2558.4,2571.3,2571.3,2602.6,2602.6,2622.0,2658.0,2669.2,2669.2,2680.3,2708.0,2719.6,2719.6,2719.6,2721.1],"Jake":[0.0,0.0,35.6,35.6,35.6,35.6,35.6,51.1,72.1,110.9,110.9,110.9,110.9,126.4,126.4,141.4,181.0,222.5,242.7,242.7,242.7,242.7,242.7,262.9,262.9,262.9,262.9,262.9,278.0,278.0,311.3,311.3,311.3,311.3,311.3,311.3,311.3,311.3,311.3,311.3,311.3,311.3,311.3,311.3,412.2,412.2,432.6,432.6,432.6,432.6,432.6,453.3,453.3,468.9,468.9,468.9,489.0,489.0,489.0,489.0,504.0,504.0,504.0,504.0,504.0,531.5,531.5,531.5,541.9,541.9,552.2,570.4,612.9,612.9,612.9,612.9,631.1,631.1,641.4,662.4,696.6,696.6,696.6,706.9,706.9,725.9,763.4,763.4,763.4,763.4,781.7,781.7,781.7,883.4,883.4,883.4,883.4,901.5,901.5,911.6,963.3,963.3,963.3,963.3,973.4,991.5,1017.0,1040.0,1040.0,1050.2,1062.6,1062.6,1087.7,1087.7,1133.5,1133.5,1151.6,1162.3,1162.3,1162.3,1162.3,1162.3,1162.3,1172.6,1172.6,1190.7,1190.7,1209.6,1278.7,1278.7,1289.0,1289.0,1289.0,1307.1,1307.1,1384.6,1384.6,1384.6,1384.6,1384.6,1384.6,1384.6,1409.7,1442.7,1442.7,1442.7,1442.7,1442.7,1442.7,1460.1,1460.1,1470.3,1470.3,1470.3,1470.3,1488.4,1510.1,1545.1,1560.6,1560.6,1560.6,1560.6,1579.6,1579.6,1579.6,1579.6,1589.9,1589.9,1589.9,1690.2,1690.2,1710.3,1710.3,1710.3,1720.5,1720.5,1732.9,1763.2,1763.2,1763.2,1773.4,1773.4,1793.5,1818.9,1839.4,1839.4,1839.4,1849.6,1849.6,1869.9,1887.0,1930.3,1930.3,1930.3,1940.5,1940.5,1940.5,1960.6,1983.8,2014.8,2014.8,2014.8,2045.0,2055.3,2055.3,2086.0,2086.0,2096.3,2096.3,2114.3,2132.1,2132.1,2182.2,2182.2,2202.3,2212.5,2242.3,2242.3,2260.3,2285.4,2320.6,2320.6,2320.6,2350.5,2350.5,2360.6,2425.1,2425.1,2442.1,2442.1,2472.5,2472.5,2489.7,2542.6,2542.6,2552.9,2552.9,2583.6,2583.6,2601.6,2635.2,2635.2,2635.2,2635.2,2635.2,2652.2,2662.0,2763.0,2763.0,2763.0,2763.0,2763.0,2780.1,2780.1,2818.6,2838.7],"Jose":[0.0,41.2,41.2,41.2,41.2,41.2,71.7,71.7,71.7,71.7,127.2,127.2,127.2,155.4,155.4,175.1,220.5,220.5,262.5,262.5,291.7,291.7,291.7,291.7,344.5,344.5,344.5,374.0,374.0,374.0,441.5,462.6,462.6,485.6,521.2,521.2,521.2,571.0,627.5,627.5,627.5,656.7,677.5,677.5,677.5,677.5,677.5,677.5,708.6,708.6,708.6,778.1,778.1,778.1,795.7,831.7,831.7,846.7,913.2,913.2,913.2,927.6,957.1,957.1,995.2,995.2,1049.3,1049.3,1049.3,1087.5,1087.5,1087.5,1087.5,1087.5,1087.5,1106.2,1132.9,1132.9,1132.9,1132.9,1132.9,1132.9,1147.5,1163.7,1163.7,1179.9,1252.3,1252.3,1252.3,1252.3,1279.2,1279.2,1279.2,1279.2,1279.2,1279.2,1279.2,1279.2,1279.2,1279.2,1279.2,1279.2,1279.2,1290.6,1290.6,1304.7,1319.6,1350.8,1371.6,1371.6,1387.2,1414.0,1414.0,1414.0,1516.3,1516.3,1532.4,1548.6,1577.7,1577.7,1597.5,1651.2,1651.2,1664.5,1681.9,1711.3,1711.3,1731.3,1788.5,1788.5,1803.7,1822.4,1851.4,1851.4,1851.4,1851.4,1851.4,1851.4,1868.7,1899.5,1899.5,1910.9,1976.3,1976.3,1996.2,1996.2,2025.5,2025.5,2025.5,2055.6,2113.4,2113.4,2131.7,2161.1,2161.1,2178.6,2178.6,2178.6,2178.6,2178.6,2178.6,2178.6,2178.6,2178.6,2211.7,2211.7,2211.7,2240.9,2240.9,2240.9,2285.5,2285.5,2285.5,2285.5,2313.5,2313.5,2328.9,2363.7,2363.7,2381.1,2381.1,2381.1,2391.4,2471.2,2471.2,2471.2,2471.2,2471.2,2471.2,2471.2,2471.2,2508.3,2542.9,2542.9,2562.5,2591.6,2591.6,2607.1,2665.9,2665.9,2677.3,2677.3,2704.1,2704.1,2719.2,2774.2,2789.1,2789.1,2789.1,2818.1,2818.1,2818.1,2876.7,2876.7,2895.3,2913.3,2943.4,2943.4,2956.6,3014.6,3014.6,3029.9,3045.7,3074.9,3074.9,3087.9,3146.5,3146.5,3165.0,3181.0,3208.5,3208.5,3221.6,3286.9,3286.9,3305.4,3322.2,3351.5,3351.5,3362.7,3426.8,3432.5,3451.3,3470.2,3500.1,3500.1,3514.6,3560.7,3560.7,3587.8,3599.6,3626.8,3626.8,3640.4,3684.4,3684.4],"Oscar":[0.0,0.0,55.9,55.9,55.9,77.2,77.2,97.3,97.3,152.1,152.1,152.1,152.1,152.1,152.1,152.1,174.3,179.0,208.4,219.3,230.3,246.4,246.4,293.1,293.1,293.1,309.3,309.3,334.2,334.2,395.7,397.6,397.6,416.6,416.6,435.1,435.1,456.3,456.3,456.3,456.3,456.3,456.3,456.3,456.3,456.3,456.3,476.0,476.0,492.5,492.5,492.5,533.1,533.1,545.7,545.7,563.0,570.6,608.8,626.7,626.7,644.0,655.0,677.0,677.0,706.2,706.2,706.2,706.2,706.2,706.2,706.2,713.6,739.0,739.0,776.4,776.4,796.9,796.9,796.9,796.9,808.0,822.3,833.5,853.5,857.1,857.1,869.6,880.3,901.5,916.2,930.5,930.5,930.5,938.6,938.6,968.1,968.1,983.9,999.9,1028.6,1028.6,1028.6,1028.6,1039.2,1065.7,1090.5,1090.5,1090.5,1090.5,1124.3,1124.3,1154.6,1154.6,1184.4,1184.4,1184.4,1208.4,1208.4,1208.4,1208.4,1208.4,1208.4,1224.1,1245.5,1245.5,1261.6,1261.6,1261.6,1273.8,1273.8,1307.8,1307.8,1338.9,1338.9,1387.0,1404.5,1414.6,1436.2,1446.1,1455.1,1455.1,1520.9,1543.5,1543.5,1573.9,1573.9,1588.3,1588.3,1630.3,1652.9,1652.9,1674.0,1684.8,1703.0,1703.0,1740.2,1740.2,1751.6,1785.8,1795.9,1818.5,1818.5,1818.5,1842.4,1842.4,1870.4,1881.4,1881.4,1965.3,1965.3,1965.3,1965.3,1992.3,1992.3,2012.7,2012.7,2068.1,2077.0,2077.0,2077.0,2096.7,2125.8,2125.8,2146.0,2146.0,2157.1,2157.1,2182.0,2201.8,2201.8,2201.8,2239.3,2239.3,2273.1,2273.1,2273.1,2273.1,2273.1,2273.1,2273.1,2273.1,2283.5,2334.5,2334.5,2334.5,2334.5,2334.5,2369.6,2376.2,2382.5,2382.5,2382.5,2382.5,2389.0,2418.9,2425.3,2448.1,2448.1,2475.4,2499.3,2516.1,2552.1,2552.1,2589.0,2589.0,2591.2,2630.4,2641.0,2680.0,2693.2,2715.5,2721.1,2748.9,2807.0,2807.0,2841.2,2851.9,2883.6,2883.6,2930.6,2930.6,2941.3,2981.8,2992.6,3001.1,3001.1,3007.9,3029.7,3029.7,3050.0,3060.6,3082.6,3082.6,3106.2,3132.4],"Randee":[0.0,22.5,68.5,68.5,68.5,82.1,93.7,115.7,115.7,143.2,143.2,143.2,158.1,167.7,167.7,167.7,221.6,261.1,274.8,274.8,286.2,286.2,286.2,317.2,323.3,323.3,323.3,335.7,344.4,352.3,432.7,432.7,432.7,446.1,446.1,446.1,456.6,456.6,456.6,456.6,456.6,456.6,468.1,480.2,580.8,587.4,592.2,592.2,607.1,620.6,632.0,632.0,660.7,660.7,660.7,671.8,685.7,695.1,746.2,778.0,778.0,791.7,803.7,819.3,829.9,857.2,875.6,875.6,890.5,901.6,917.3,917.3,997.5,1005.6,1010.5,1010.5,1033.1,1047.7,1059.1,1059.1,1106.1,1111.0,1125.9,1125.9,1141.7,1146.7,1151.5,1151.5,1151.5,1175.6,1175.6,1175.6,1175.6,1281.1,1281.1,1281.1,1290.4,1304.0,1345.0,1355.7,1416.7,1453.2,1453.2,1464.7,1487.9,1503.5,1503.5,1503.5,1526.5,1526.5,1531.5,1546.5,1559.6,1559.6,1605.7,1613.7,1636.4,1652.7,1666.2,1666.2,1666.2,1669.5,1732.4,1732.4,1743.3,1743.3,1743.3,1747.3,1799.0,1803.9,1803.9,1816.6,1830.2,1830.2,1830.2,1907.9,1943.9,1943.9,1955.7,1955.7,1955.7,1985.1,1999.8,2036.4,2040.6,2055.8,2055.8,2055.8,2079.0,2079.0,2129.8,2129.8,2129.8,2162.3,2181.6,2181.6,2190.6,2225.5,2225.5,2237.7,2268.2,2268.2,2281.8,2382.0,2382.0,2382.0,2394.2,2394.2,2394.2,2500.7,2500.7,2504.5,2509.0,2524.4,2534.9,2534.9,2534.9,2551.3,2560.1,2560.1,2572.1,2572.1,2572.1,2585.3,2622.8,2630.9,2630.9,2630.9,2630.9,2630.9,2630.9,2674.5,2702.2,2702.2,2718.0,2718.0,2718.0,2718.0,2742.5,2779.4,2779.4,2779.4,2809.9,2809.9,2809.9,2827.3,2865.2,2878.8,2892.5,2892.5,2892.5,2892.5,2954.6,2954.6,2954.6,2968.3,2998.1,2998.1,3018.9,3064.2,3099.4,3099.4,3116.5,3146.3,3146.3,3146.3,3202.3,3225.1,3226.7,3240.3,3270.1,3270.1,3289.2,3333.8,3339.1,3339.1,3339.1,3369.6,3369.6,3369.6,3472.0,3478.7,3478.7,3478.7,3478.7,3492.3,3498.2,3606.4,3606.4,3606.4,3606.4,3606.4,3606.4,3606.4,3622.4,3622.4]},"feet":{"Abe":[0,0,295,295,295,295,295,295,295,958,2828,3054,3054,3917,3917,4386,5164,5164,5164,5164,6309,6309,6309,6309,6837,7339,7339,8878,8878,9144,11522,11522,11522,11696,13740,13740,15115,15115,15115,16217,16217,16909,16909,16909,16909,16909,16909,16909,17441,17625,17625,21732,21732,21732,22205,23704,23704,23704,27011,27011,27011,27651,29173,29173,29557,29557,29557,29557,30915,32244,32244,32244,32244,32244,33301,33301,34961,34961,35554,35554,36420,37250,37250,39140,39140,39140,43484,43484,43484,43484,44084,44084,45347,46105,46105,46285,46285,48182,48182,48182,50160,50160,50754,50754,52388,52388,53405,54330,54330,54330,54743,54743,54743,54743,62190,62190,62190,62190,63775,63775,63775,67292,67292,67722,67722,68339,69051,69651,69651,69651,69910,69910,69910,69910,69910,69910,69910,69910,69910,69910,70983,70983,78857,78857,78857,80780,80780,81711,81711,81711,82899,83499,83499,83818,83818,84680,84680,84680,85448,85448,86970,86970,86970,89018,89018,90330,90330,91888,91888,91888,94772,94772,94772,94913,94913,94913,94913,99392,99392,99392,99392,99392,99392,99392,99392,99392,99392,99392,99740,99740,99740,99740,99740,99740,99740,100304,101203,101203,104556,104556,104556,105406,106974,106974,106974,108670,108670,108670,109152,109152,109343,109343,113749,113749,113749,113749,115376,115376,115655,116154,116154,116154,116409,117935,117935,117935,117935,117935,117935,117935,119536,119536,120054,122338,122338,122338,123644,125235,125235,125727,129303,129303,129303,130156,130822,131925,131925,133004,133004,133004,133004,134369,134369,134881,136360,136360],"Ali":[0,2966,4921,6047,6047,6047,6047,6047,7536,10128,10479,11575,11575,11575,11575,13045,14272,15285,15285,15285,15285,15285,17083,19337,19337,20433,21257,21257,22352,23638,24091,24091,24091,24091,24091,24436,25738,27080,27080,28097,29193,29193,30289,31175,32310,32756,33917,35013,35909,35909,36975,36975,38683,39765,39765,40208,40924,40924,41721,41721,42741,42741,43515,44286,45737,46239,46239,47531,47885,48250,51179,51179,53424,53424,53424,53581,54057,54057,54057,58926,59280,59992,59992,60500,60956,60956,61550,63952,63952,64792,64792,65124,65547,69343,69343,69343,69343,70245,70763,70763,70763,72922,72922,73398,73962,74225,74225,75967,75967,76272,77342,77342,78450,79281,80645,80645,80645,81534,81534,81534,82332,83096,85777,85777,86685,87095,87095,87886,93283,93283,93641,94336,94336,94336,94947,100465,100465,100465,101174,101439,101439,101767,104385,104385,107000,107000,108470,108470,108470,109635,109730,109730,109730,109730,110130,110130,110130,111557,111557,112073,112073,112073,112073,112073,114815,114815,115567,115567,115567,118329,118329,121036,121036,122417,122417,122417,122745,122745,124399,124399,125186,125186,125186,128185,131698,131698,131698,131698,131698,131698,133857,133857,137919,137919,137919,139376,139376,139717,139717,144071,144071,144481,145908,145908,146357,146357,149094,149408,149408,149730,149730,149986,154504,154504,154504,154510,155957,155957,155957,155957,155957,155957,156365,157835,157835,157835,159958,159958,160903,160903,162336,162336,165033,167123,167123,167523,167523,168967,168967,169324,171742,171742,171992,171992,173491,173491,173954,175955,179426,179426,180420,181762,182819,182819,182819,182874],"Jake":[0,0,1926,1926,1926,1926,1926,2343,3058,5961,5961,5961,5961,6407,6407,6804,8150,10755,11440,11440,11440,11440,11440,12051,12051,12051,12051,12051,12431,12431,13711,13711,13711,13711,13711,13711,13711,13711,13711,13711,13711,13711,13711,13711,15820,15820,16493,16493,16493,16493,16493,17175,17175,17618,17618,17618,18225,18225,18225,18225,18625,18625,18625,18625,18625,20072,20072,20072,20705,20705,21299,21969,22969,22969,22969,22969,23615,23615,24213,25338,28271,28271,28271,28875,28875,29514,31184,31184,31184,31184,31850,31850,31850,35361,35361,35361,35361,36030,36030,36663,38402,38402,38402,38402,39016,39685,40728,42267,42267,42887,43668,43668,44652,44652,46444,46444,47129,47766,47766,47766,47766,47766,47766,48392,48392,49137,49137,49852,53825,53825,54432,54432,54432,55148,55148,60646,60646,60646,60646,60646,60646,60646,61686,63169,63169,63169,63169,63169,63169,63799,63799,64465,64465,64465,64465,65164,65984,67359,67516,67516,67516,67516,68219,68219,68219,68219,68848,68848,68848,71033,71033,71798,71798,71798,72415,72415,72930,74446,74446,74446,75075,75075,75817,76850,77982,77982,77982,78589,78589,79386,80085,82448,82448,82448,83058,83058,83058,83973,85486,86526,86526,86526,88028,88645,88645,90030,90030,90663,90663,91342,92096,92096,93520,93520,94272,94921,96385,96385,97047,98117,99488,99488,99488,100942,100942,101552,104741,104741,105433,105433,106900,106900,107539,110102,110102,110689,110689,112096,112096,112730,114964,114964,114964,114964,114964,115627,116040,120174,120174,120174,120174,120174,120820,120820,122552,123261],"Jose":[0,1854,1854,1854,1854,1854,3576,3576,3576,3576,7238,7238,7238,8812,8812,9587,12100,12100,14511,14511,16053,16053,16053,16053,19652,19652,19652,21184,21184,21184,23678,24419,24419,25696,27388,27388,27388,29721,32493,32493,32493,34108,34590,34590,34590,34590,34590,34590,36424,36424,36424,41102,41102,41102,41837,43615,43615,43911,47369,47369,47369,48018,49649,49649,51503,51503,54003,54003,54003,55709,55709,55709,55709,55709,55709,56109,57467,57467,57467,57467,57467,57467,57890,58675,58675,59203,63241,63241,63241,63241,64662,64662,64662,64662,64662,64662,64662,64662,64662,64662,64662,64662,64662,64980,64980,65420,66043,67395,68346,68346,68832,70249,70249,70249,74039,74039,74557,75364,76860,76860,77674,81076,81076,81470,82300,83796,83796,84580,89885,89885,90207,91184,92690,92690,92690,92690,92690,92690,93596,95056,95056,95377,103281,103281,103743,103743,105240,105240,105240,106870,109934,109934,110919,112392,112392,113094,113094,113094,113094,113094,113094,113094,113094,113094,114265,114265,114265,115745,115745,115745,118553,118553,118553,118553,119964,119964,120305,122136,122136,122822,122822,122822,123110,127815,127815,127815,127815,127815,127815,127815,127815,129800,130906,130906,131670,133110,133110,133448,136637,136637,136939,136939,138327,138327,138786,141808,142172,142172,142172,143609,143609,143609,146670,146670,147064,148192,149646,149646,149993,154032,154032,154373,155394,156847,156847,157195,160561,160561,161020,162149,163681,163681,164068,166962,166962,167375,168501,169915,169915,170203,174590,174738,175157,175584,177159,177159,177480,181257,181257,182690,183022,184439,184439,184734,187051,187051],"Oscar":[0,0,1473,1473,1473,1952,1952,2638,2638,4688,4688,4688,4688,4688,4688,4688,5495,5581,6893,7333,7733,7733,7733,9626,9626,9626,9626,9626,10466,10466,12513,12552,12552,12913,12913,12913,12913,13002,13002,13002,13002,13002,13002,13002,13002,13002,13002,13491,13491,13491,13491,13491,14459,14459,14744,14744,15564,15807,17106,17359,17359,17825,18100,18547,18547,20528,20528,20528,20528,20528,20528,20528,20951,22464,22464,23645,23645,23940,23940,23940,23940,24386,25341,25643,26053,26604,26604,26650,26915,27795,28185,28654,28654,28654,30219,30219,31387,31387,31965,32358,33549,33549,33549,33549,34071,36525,37522,37522,37522,37522,39278,39278,40485,40485,41233,41233,41233,42362,42362,42362,42362,42362,42362,42460,42565,42565,43897,43897,43897,44278,44278,45094,45094,46554,46554,47503,48198,48513,50065,50409,50577,50577,58461,59058,59058,60236,60236,60554,60554,61469,62591,62591,63073,63402,63972,63972,66338,66338,66732,67942,68251,68844,68844,68844,70636,70636,72040,72362,72362,74514,74514,74514,74514,75623,75623,76052,76052,83697,83972,83972,83972,84419,85147,85147,87749,87749,88087,88087,88792,89248,89248,89248,90062,90062,91112,91112,91112,91112,91112,91112,91112,91112,91538,94570,94570,94570,94570,94570,96259,96443,96617,96617,96617,96617,96837,98848,99012,100572,100572,101510,102272,102849,105024,105024,105887,105887,106107,107419,107626,109640,109919,110487,110598,111054,112419,112419,114115,114325,115083,115083,118213,118213,118502,120077,120339,121704,121704,122052,122888,122888,124201,124447,124923,124923,128089,128863],"Randee":[0,853,3097,3097,3097,3504,3776,4685,4685,7293,7293,7293,7753,8061,8061,8061,11414,13934,14344,14344,14626,14626,14626,16949,16965,16965,16965,17303,17503,18638,20620,20620,20620,21024,21024,21024,21273,21273,21273,21273,21273,21273,21627,22198,24337,24823,25240,25240,25735,26138,26558,26558,28058,28058,28058,28465,28793,29088,29934,31194,31194,31604,32041,32480,33645,35095,35738,35738,36181,36601,37051,37051,39042,39396,39623,39623,40492,40823,41306,41306,44636,45331,45774,45774,46188,46801,47146,47146,47146,50003,50003,50003,50003,53720,53720,53720,55814,56214,57415,57917,60128,63446,63446,64161,64942,65365,65365,65365,68442,68442,68616,68984,69587,69587,71300,71995,72543,73757,74066,74066,74066,74184,77914,77914,78734,78734,78734,79151,85785,86224,86224,87419,87839,87839,87839,93491,94899,94899,96008,96008,96008,100713,103573,105253,105519,106165,106165,106165,106966,106966,109144,109144,109144,110837,111457,111457,111741,113175,113175,115927,117456,117456,117893,120127,120127,120127,121279,121279,121279,124074,124074,125239,125996,128044,128273,128273,128273,128844,130740,130740,131876,131876,131876,132171,135753,138860,138860,138860,138860,138860,138860,141354,145402,145402,145845,145845,145845,145845,147023,151183,151183,151183,152692,152692,152692,154445,155927,156361,156787,156787,156787,156787,162000,162000,162000,162440,163952,163952,164763,166495,167909,167909,168667,170176,170176,170176,172919,174766,174852,175262,176758,176758,177181,179271,179543,179543,179543,181046,181046,181046,183251,183628,183628,183628,183628,184156,184373,189340,189340,189340,189340,189340,189340,189340,191551,191551]}};
